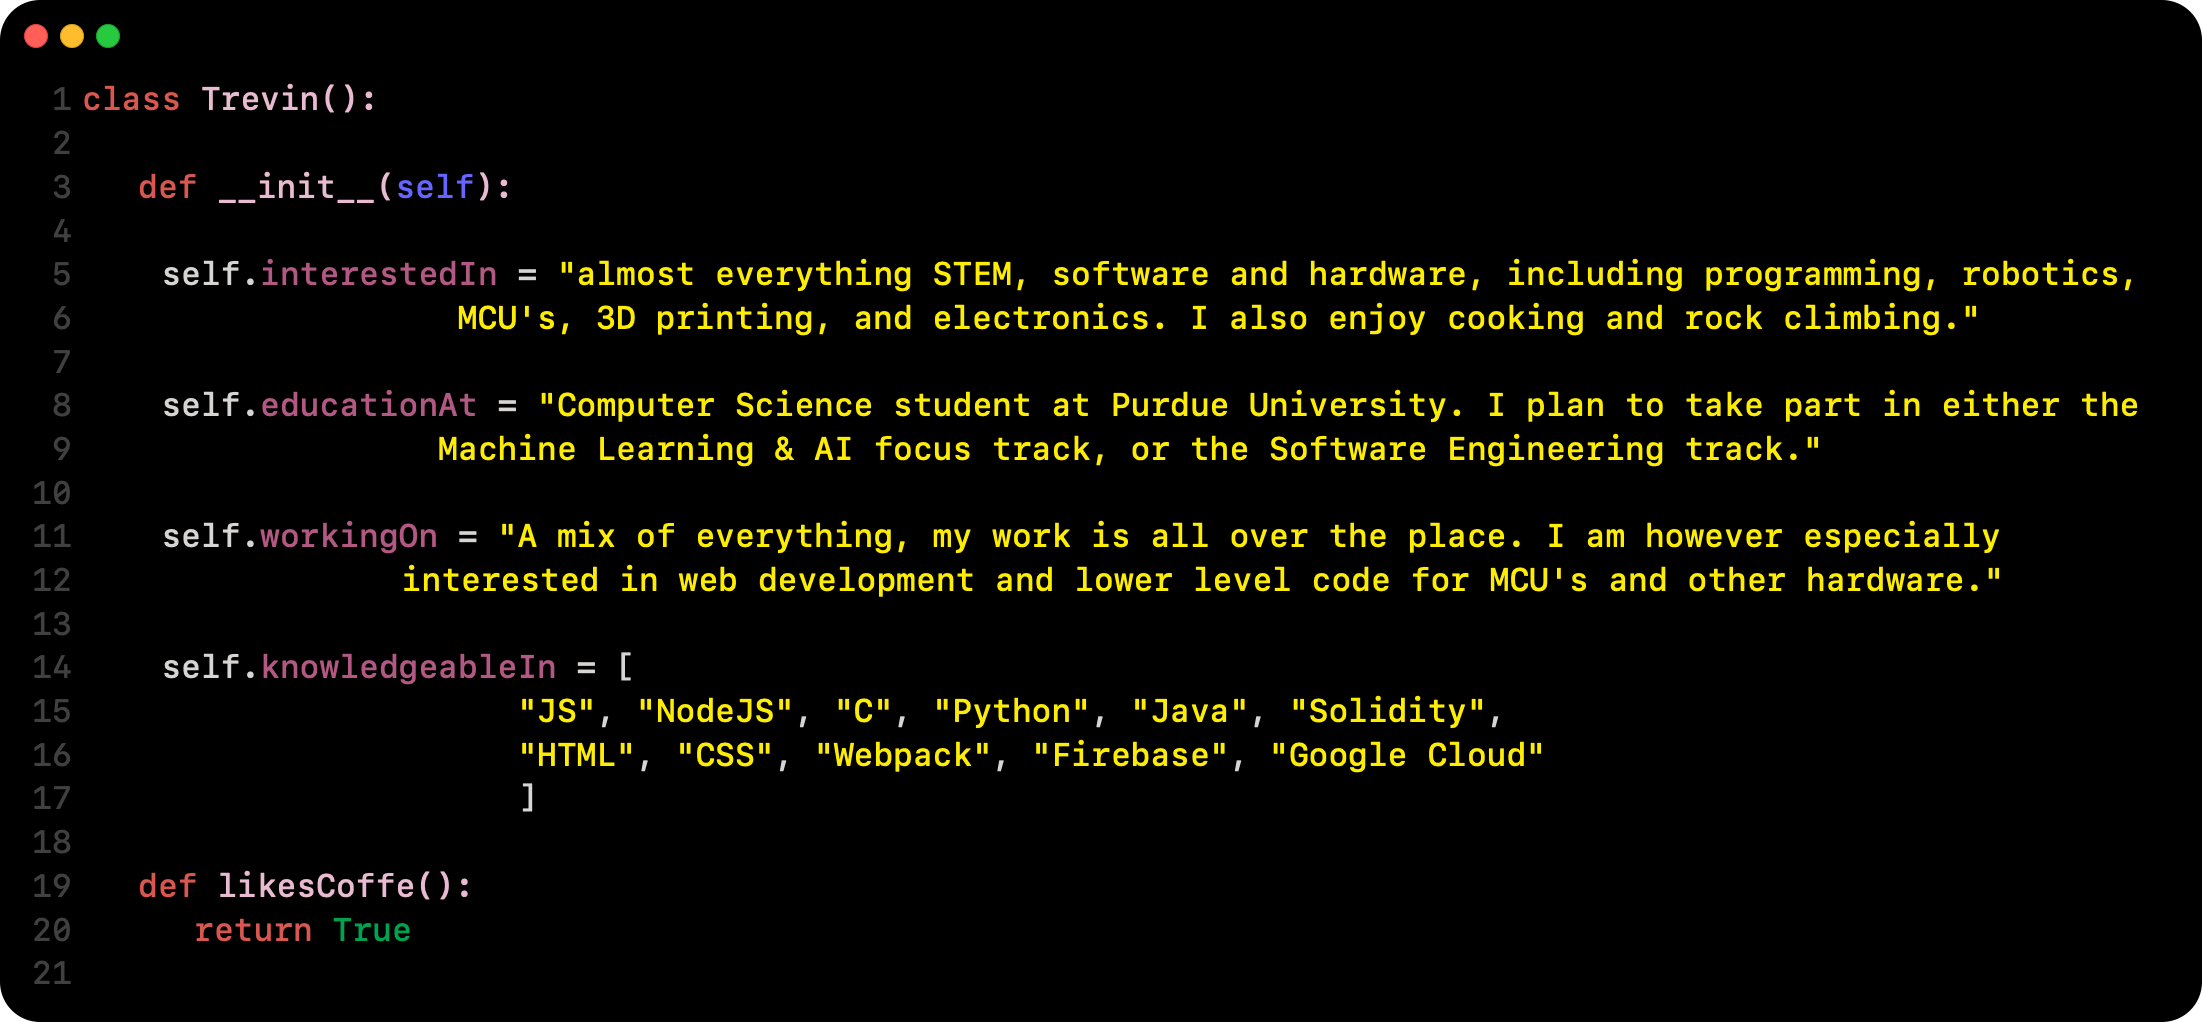
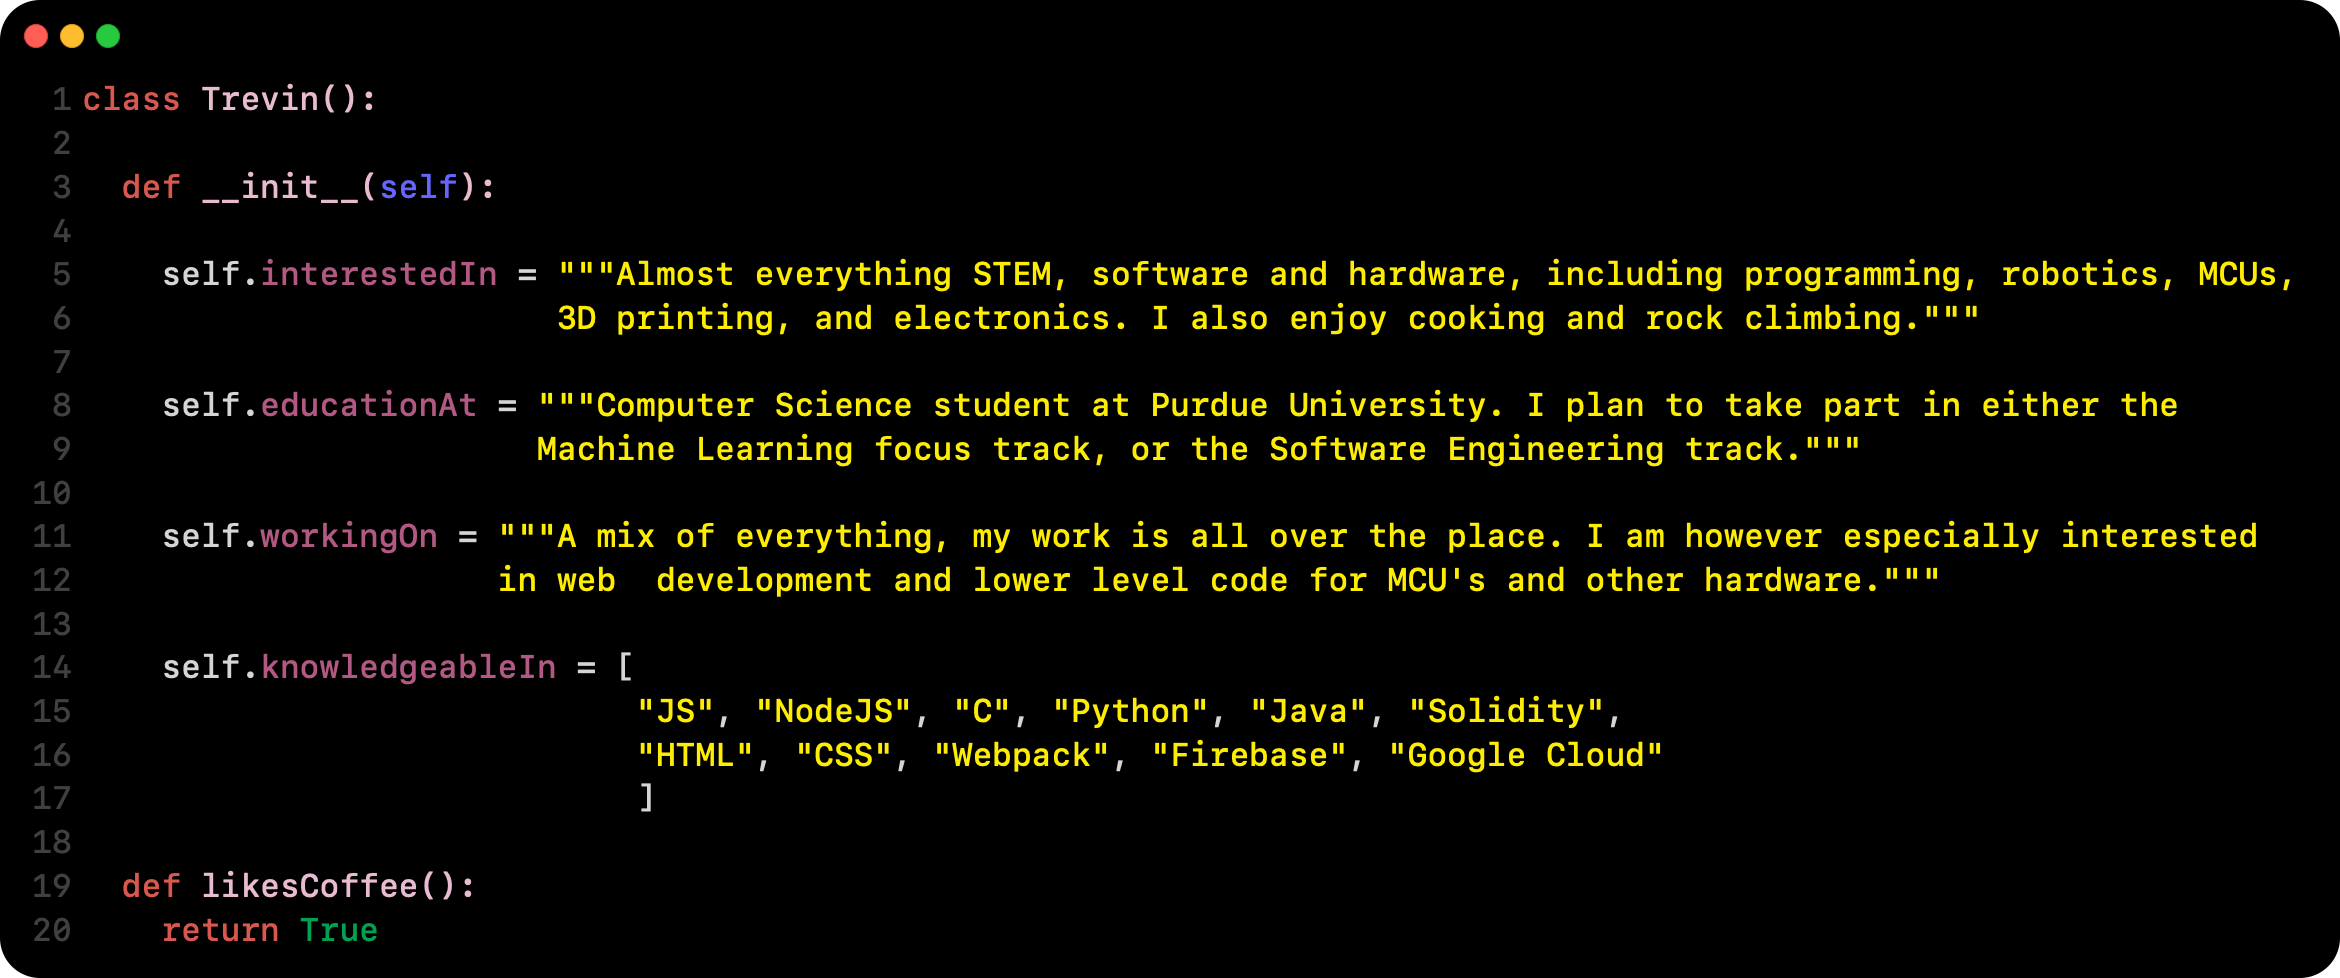
Updated code pic

diff --git a/abt_me.py b/abt_me.py
@@ -1,0 +1,20 @@
+class Trevin():
+
+  def __init__(self):
+
+    self.interestedIn = """Almost everything STEM, software and hardware, including programming, robotics, MCUs,
+                        3D printing, and electronics. I also enjoy cooking and rock climbing."""
+
+    self.educationAt = """Computer Science student at Purdue University. I plan to take part in either the
+                       Machine Learning focus track, or the Software Engineering track."""
+
+    self.workingOn = """A mix of everything, my work is all over the place. I am however especially interested
+                     in web  development and lower level code for MCU's and other hardware."""
+
+    self.knowledgeableIn = [
+                            "JS", "NodeJS", "C", "Python", "Java", "Solidity",
+                            "HTML", "CSS", "Webpack", "Firebase", "Google Cloud"
+                            ]
+
+  def likesCoffee():
+    return True
